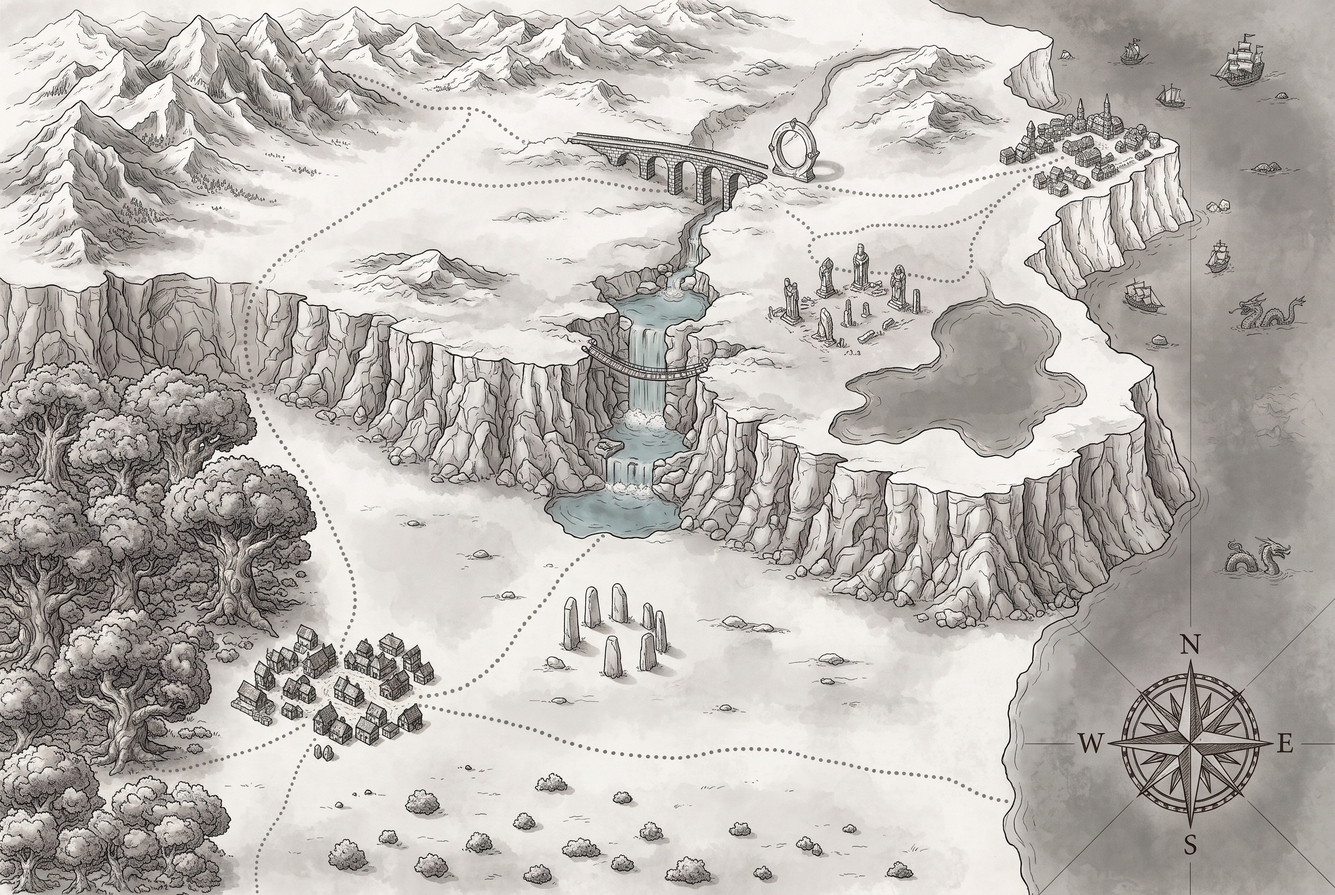
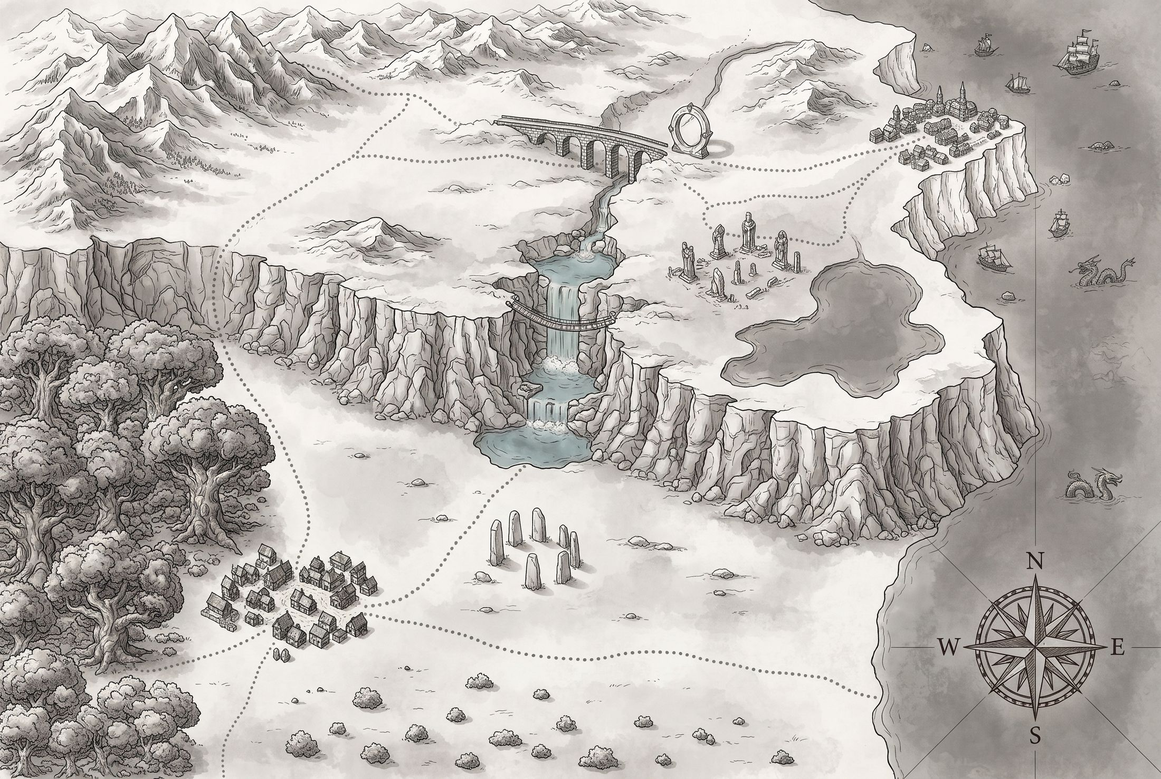
Performance mobile: mapa 0,7MB (antes 3,6MB), miniaturas nos cards, anel da transição 50% mais rápido, fallbacks de viewport
Claude-Session: https://claude.ai/code/session_01ND8s2GWDAtCXSVNAmzHagg

diff --git a/mapa/index.html b/mapa/index.html
@@ -3,6 +3,7 @@
 <head>
 <meta charset="UTF-8">
 <meta name="viewport" content="width=device-width, initial-scale=1.0">
+<meta name="theme-color" content="#262420">
 <title>A Estrada para Maré-Alta</title>
 <link rel="stylesheet" href="https://fonts.googleapis.com/css2?family=EB+Garamond:ital,wght@0,400;0,600;1,400&family=IM+Fell+English+SC&display=swap">
 <style>
@@ -220,12 +221,12 @@
     .map-note{display:none}
     .map-section{padding:0}
     .map-wrap{
-      width:100%;height:100svh;border:none;outline:none;
+      width:100%;height:100vh;height:100svh;border:none;outline:none;
       overflow:auto;box-shadow:none;
       -webkit-overflow-scrolling:touch;
       display:flex;touch-action:pan-x pan-y;
     }
-    .pan{height:100svh;width:max-content;margin:auto;flex:none}
+    .pan{height:100vh;height:100svh;width:max-content;margin:auto;flex:none}
     .map-wrap img{height:100%;width:auto;max-width:none}
     .zoombtns{display:flex}
     #content{
@@ -260,7 +261,7 @@
   </div>
   <div class="map-wrap" id="wrap">
     <div class="pan" id="pan">
-      <img src="map.jpg" alt="Mapa de A Estrada para Maré-Alta" draggable="false">
+      <img src="map.jpg" alt="Mapa de A Estrada para Maré-Alta" draggable="false" fetchpriority="high" decoding="async">
       <svg class="overlay" id="ov" viewBox="0 0 2528 1696" preserveAspectRatio="xMidYMid meet"></svg>
       <div id="tip"></div>
     </div>
@@ -292,7 +293,7 @@
 <div id="lb">
   <span id="close">×</span>
   <span class="nav" id="prev">‹</span>
-  <img id="lbimg" src="" alt="">
+  <img id="lbimg" src="" alt="" decoding="async">
   <div class="cap" id="lbcap"></div>
   <div class="capsub" id="lbsub"></div>
   <span class="nav" id="next">›</span>
@@ -385,7 +386,7 @@ for(const r of ROUTES){
     BYNUM[num]=idx; FLAT.push({num,name,desc});
     const card = document.createElement('div');
     card.className='card'; card.id='loc-'+num;
-    card.innerHTML = `<div class="imgbox"><img src="img/${num}.jpg" alt="${name}" loading="lazy">`+
+    card.innerHTML = `<div class="imgbox"><img src="img/t/${num}.jpg" alt="${name}" loading="lazy" decoding="async">`+
       `<div class="badge">${num==='fora'?'✣':parseInt(num,10)}</div></div>`+
       `<div class="info"><h3>${name}</h3><p>${desc}</p></div>`;
     card.onclick = ()=> openLb(idx);
@@ -454,9 +455,9 @@ function openLb(i){ cur=i; const p=FLAT[i]; const seq=++tseq;
     setTimeout(()=>{ if(seq!==tseq)return;
       lb.classList.remove('peek');
       peekbanner.classList.remove('show');
-      setTimeout(()=>{ if(seq!==tseq)return; clearPulse(); },600);
+      setTimeout(()=>{ if(seq!==tseq)return; clearPulse(); },200);
       loadImg(p,seq);
-    },1600);
+    },900);
   } else loadImg(p,seq);
 }
 function nav(d){ openLb((cur+d+FLAT.length)%FLAT.length); }
